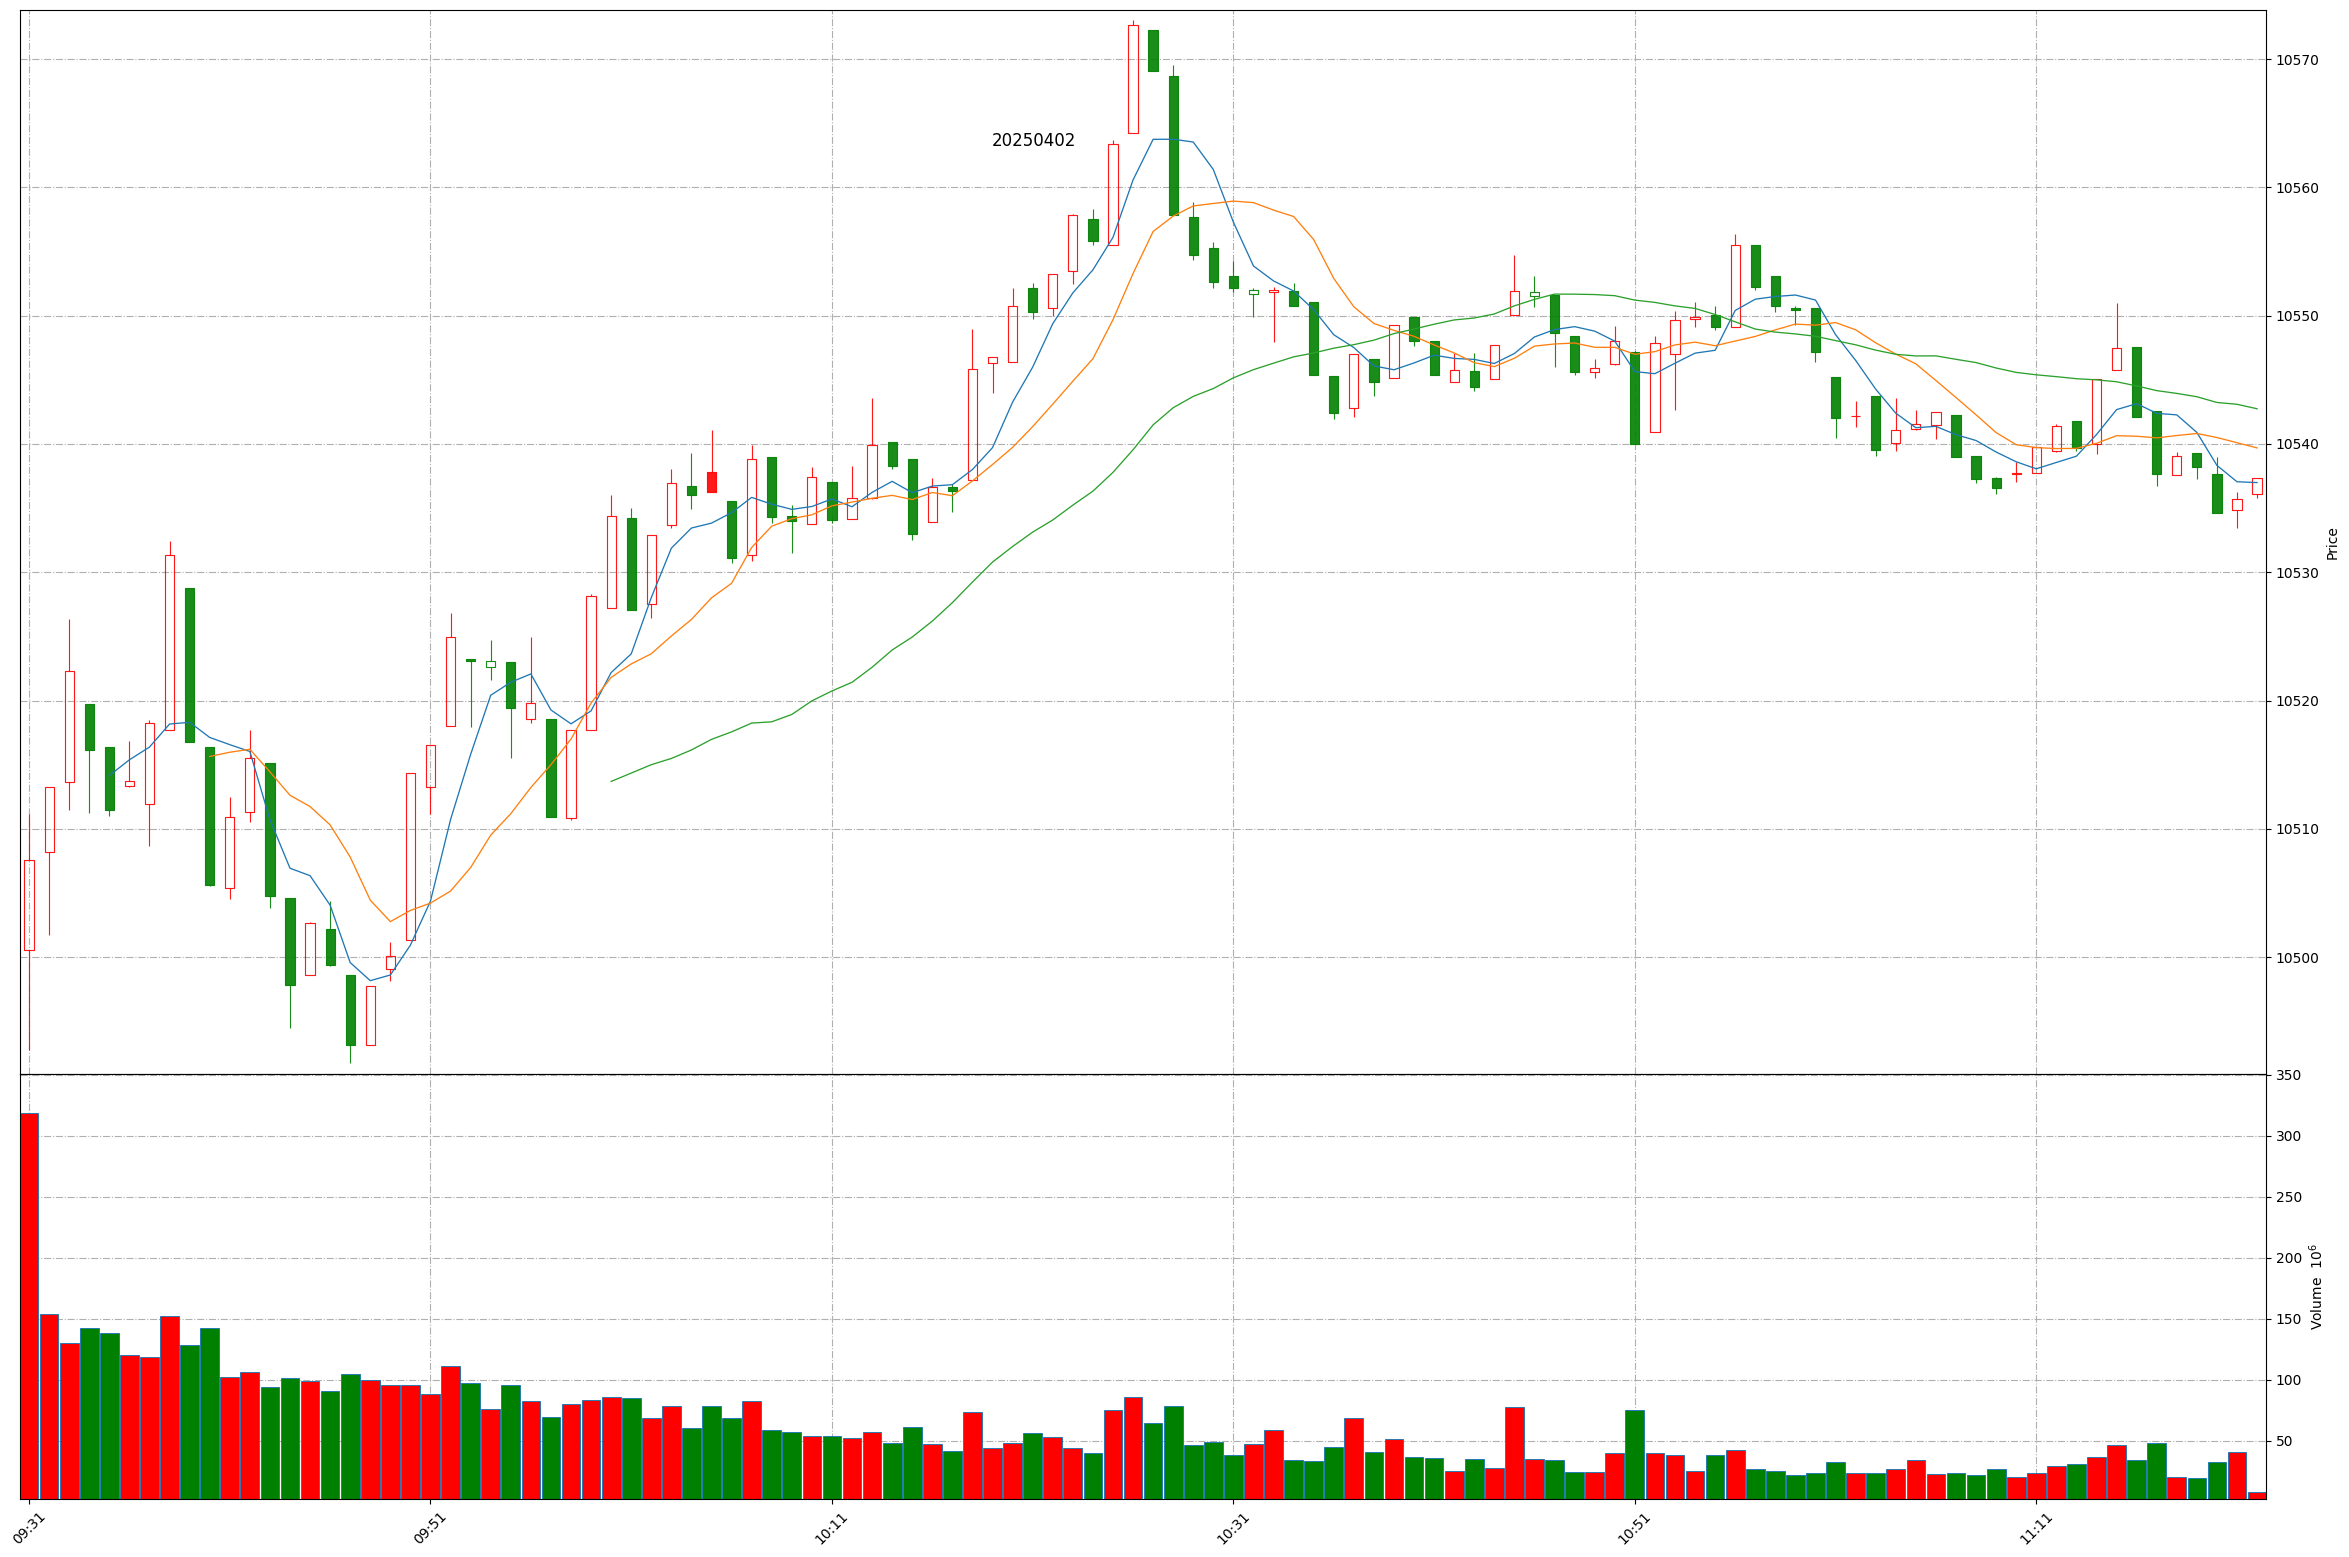
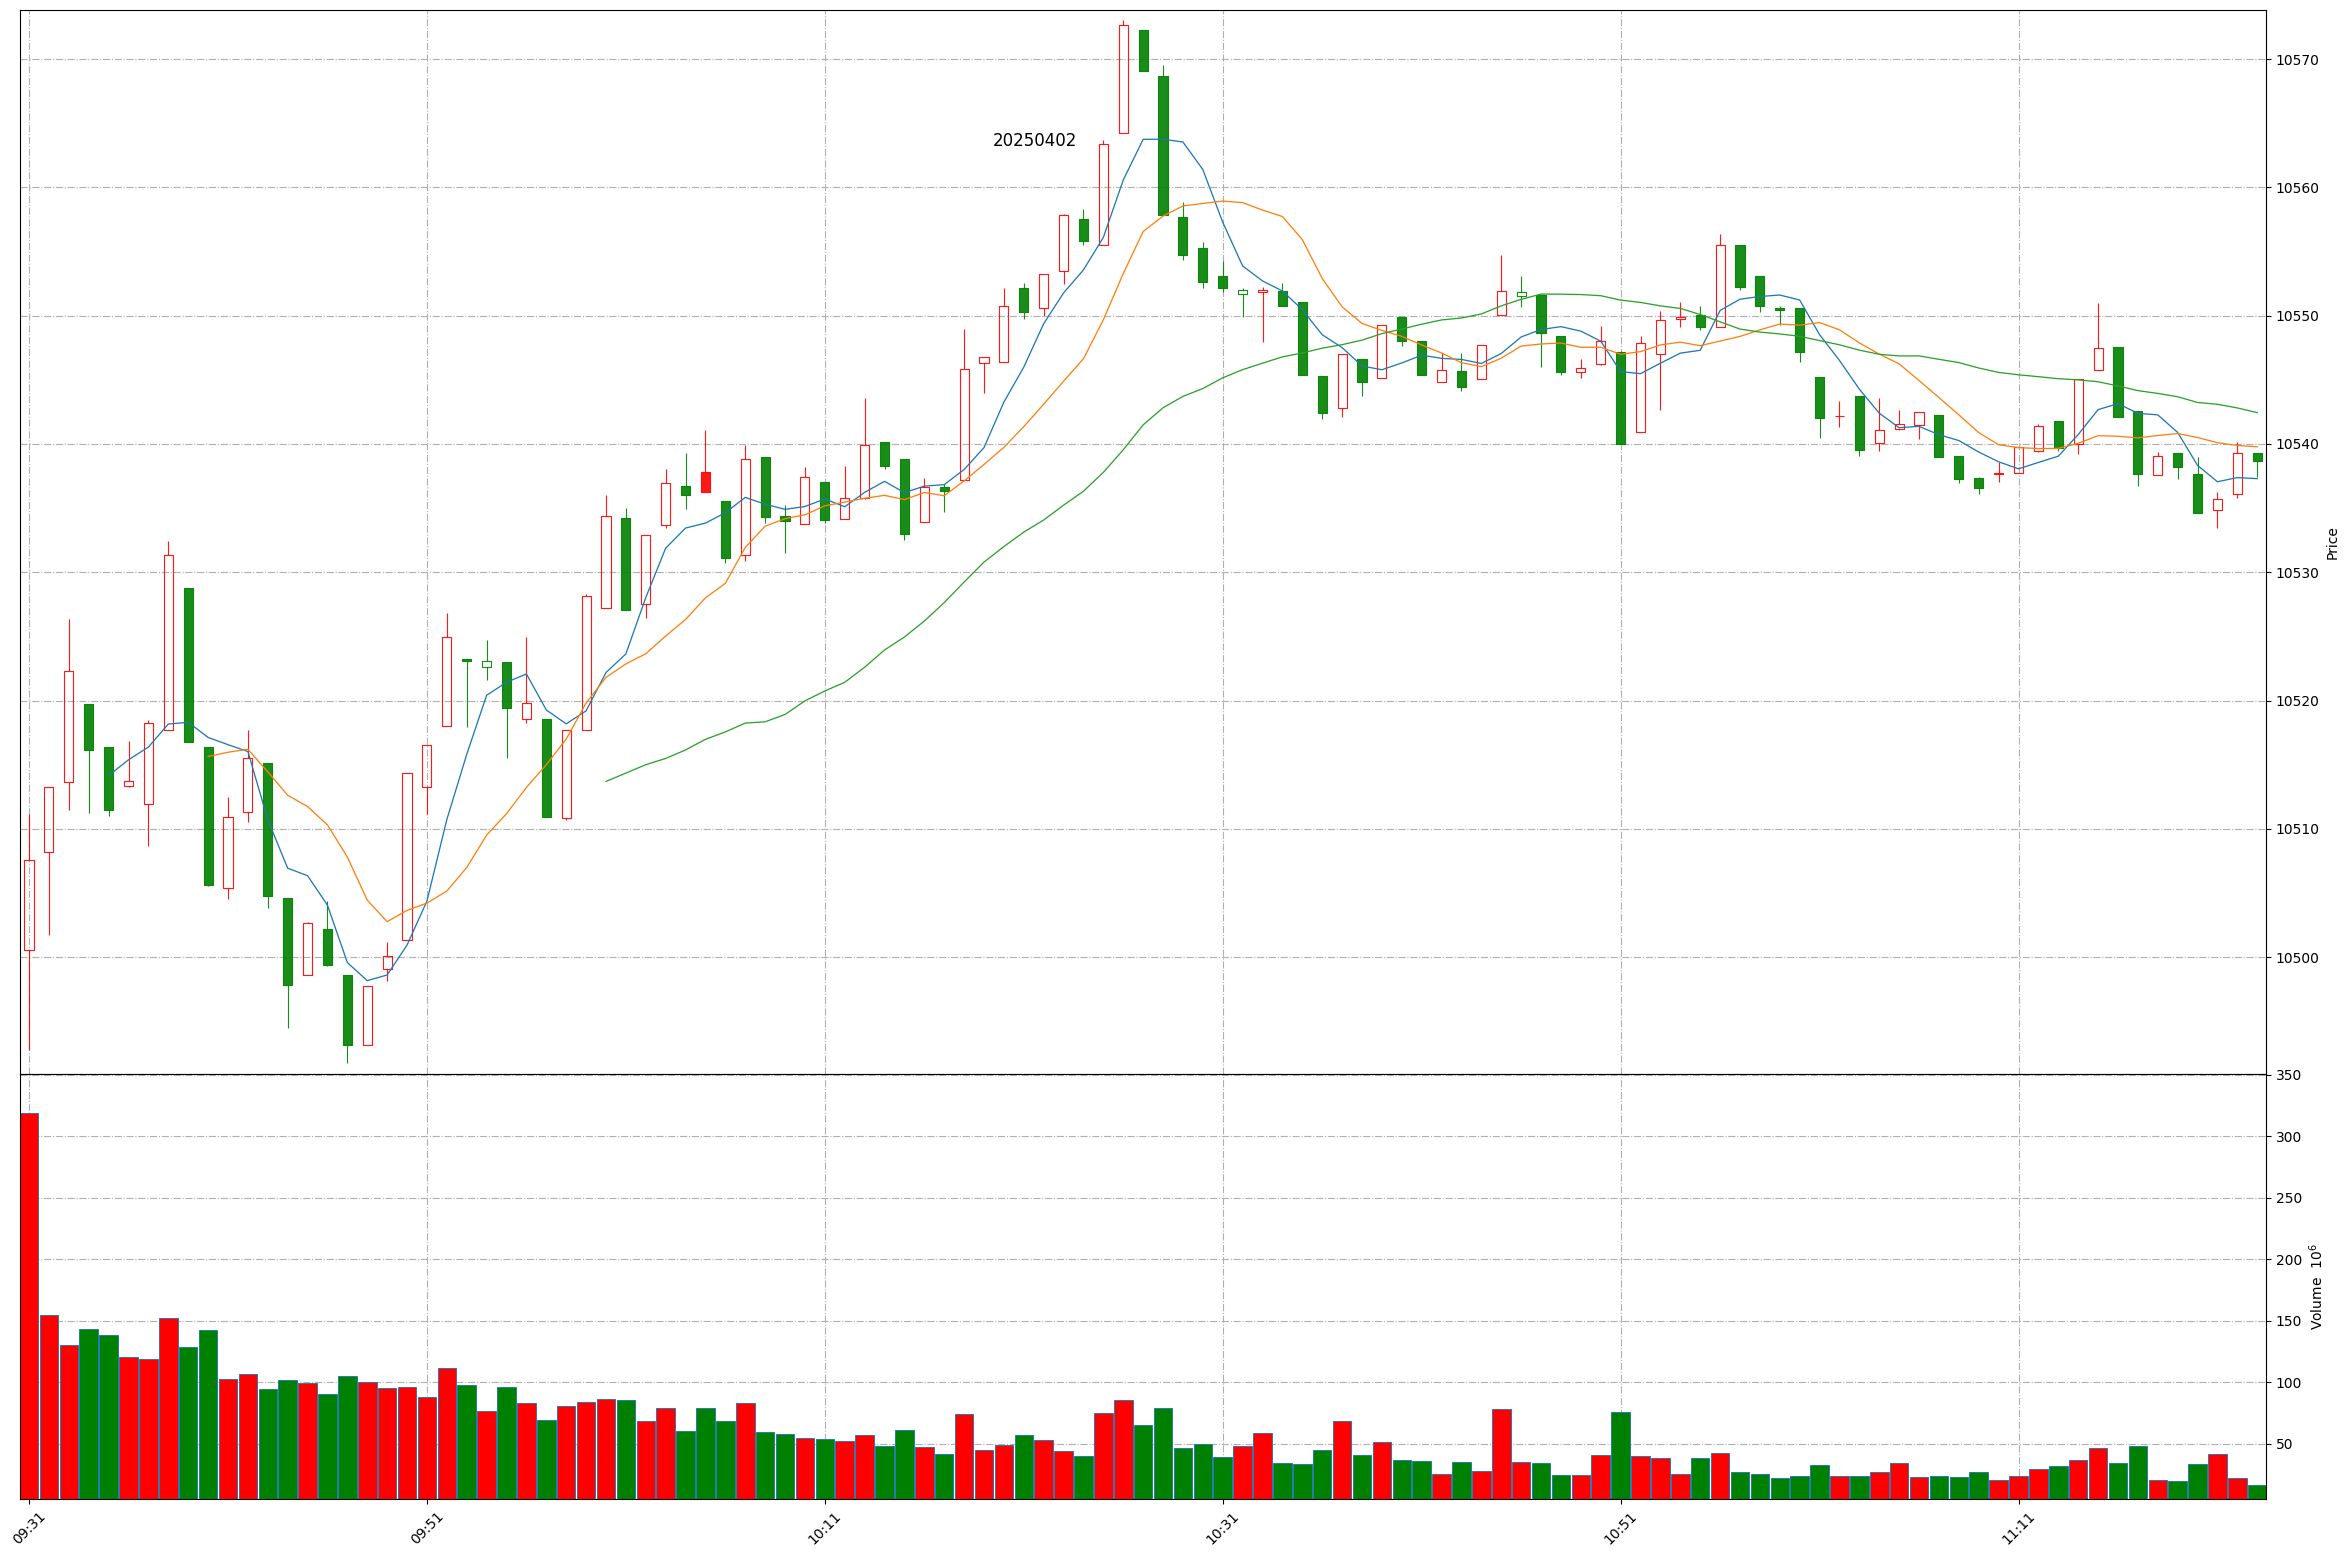
Github action update at 2025-04-02 11:22:55.

diff --git a/README.md b/README.md
@@ -1,11 +1,11 @@
 
 # Daily-A-share-market-quotes 每日 A 股指数（5min 更新）- 20250402
 
-### 上证指数 20250402 11:21
+### 上证指数 20250402 11:22
 ![](./fig/2025/4/20250402-sh000001.png)
 
-### 深证成指 20250402 11:21
+### 深证成指 20250402 11:22
 ![](./fig/2025/4/20250402-sz399001.png)
 
-### 北证50 20250402 11:21
+### 北证50 20250402 11:22
 ![](./fig/2025/4/20250402-bj899050.png)
